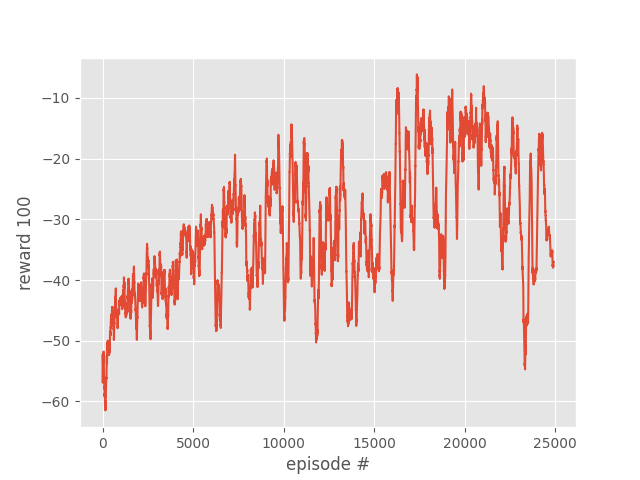
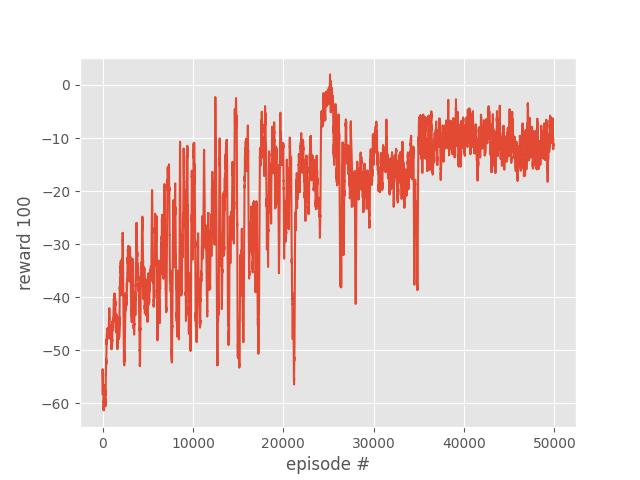
graphs

diff --git a/RL/graph_colouring.py b/RL/graph_colouring.py
@@ -29,7 +29,7 @@ BUCKETS = 50
 NUM_ACTIONS = 3 # 3rd action is don't do anything
 UPDATE_INTERVAL = 1 # update the feature vector after every _ turns
 
-HM_EPISODES = 25_000
+HM_EPISODES = 50_000
 REWARD = 20
 PENALTY = 10
 TURN = 1
@@ -138,7 +138,7 @@ plt.plot([i for i in range(len(moving_avg))], moving_avg)
 plt.ylabel(f"reward {SHOW_EVERY}")
 plt.xlabel("episode #")
 # plt.show()
-plt.savefig('varypen2.png')
+plt.savefig('qtable.png')
 
 with open(f"qtable-{int(time.time())}.pickle", "wb") as f:
     pickle.dump(q_table, f)
